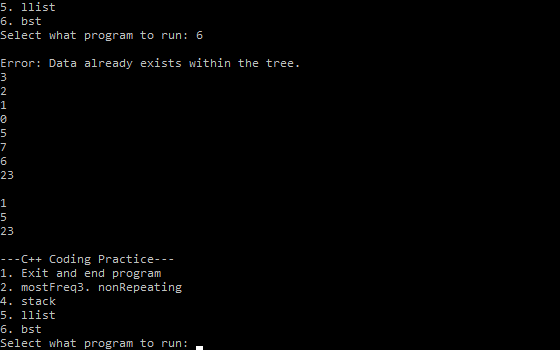
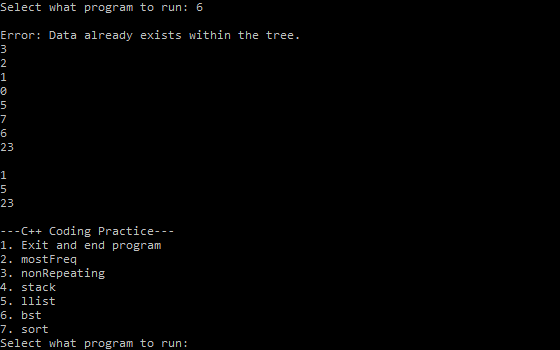
Bubble Sort: tested
bubble sort tested and runs correctly.

the project is in need of a refactor, thinking about doing that next.

Changed region(s): [[0.0, 0.1714, 0.5464, 0.9714], [0.0, 0.0, 0.5464, 0.1429], [0.3339, 0.9714, 0.3643, 1.0]]

diff --git a/C++Practice/C++Practice/main.cpp b/C++Practice/C++Practice/main.cpp
@@ -9,6 +9,7 @@ Main file for C++ Coding Practice
 #include "stack.h"
 #include "llist.h"
 #include "tree.h"
+#include "sort.h"
 using namespace std;
 
 int main() {
@@ -18,12 +19,13 @@ int main() {
 	stack stac;
 	llist list; 
 	tree bst;
+	sort srt;
 	int choice =0;
 
 	//do while & switch statement to choose which program to run. 
 	do {
 		cout << "\n---C++ Coding Practice---" << endl;
-		cout << "1. Exit and end program" << endl << "2. mostFreq" << "3. nonRepeating" << endl << "4. stack" << endl << "5. llist" << endl << "6. bst" << endl;
+		cout << "1. Exit and end program" << endl << "2. mostFreq" << endl << "3. nonRepeating" << endl << "4. stack" << endl << "5. llist" << endl << "6. bst" << endl << "7. sort" << endl;
 		cout << "Select what program to run: ";
 
 		if (!(cin >> choice)){
@@ -55,6 +57,9 @@ int main() {
 				break;
 			case 6:
 				bst.bstProc();
+				break;
+			case 7:
+				srt.sortProc();
 				break;
 			default:
 				cout << "Error: " << choice << " is an incorrect input. Try again." << endl;

diff --git a/C++Practice/C++Practice/sort.cpp b/C++Practice/C++Practice/sort.cpp
@@ -8,8 +8,10 @@ Prompt: Implement bubble sort
 #define SORT_CPP
 #include "sort.h"
 
-sort::sort()
+sort::sort(int array_[])
 {
+	for (int i = 0; i < 10; i++)
+		array[i] = array_[i];
 }
 
 
@@ -21,7 +23,7 @@ void sort::bubble(int arr[], int n) {
 	int temp;
 
 	for (int i = 0; i < n; i++) {
-		for (int j = 0; j < n-i-1; j++) { //repeat n-1 times. 
+		for (int j = 0; j < n-i-1; j++) { //n-1 comparisons
 			if (arr[j] > arr[j+1]) { //swap
 				temp = arr[j+1];
 				arr[j+1] = arr[j];
@@ -30,11 +32,22 @@ void sort::bubble(int arr[], int n) {
 			//else, continue
 		}
 	}
+}
 
+void sort::display(int arr[], int n) {
 
+	cout << "Array: ";
+	for (int i = 0; i < n; i++) {
+		cout << arr[i] << " ";
+	}
+	cout << endl;
+}
 
-
-
+void sort::sortProc() {
+	display(array, 10);
+	cout << "Bubble sort." << endl;
+	bubble(array, 10);
+	display(array, 10);
 }
 
 #endif 

diff --git a/C++Practice/C++Practice/sort.h b/C++Practice/C++Practice/sort.h
@@ -11,13 +11,16 @@ using namespace std;
 
 class sort
 {
+private: 
+	int array[10] = { 20, 2, 3, 4, 70, 34, 1, 0, 90, 8 };
 public:
-	sort();
+	sort() = default;
+	sort(int array_[]);
 	~sort();
 
 	void bubble(int arr[], int n); //bubble sort for an array
-
-
+	void display(int arr[], int n);
+	void sortProc(); 
 };
 
 #endif
